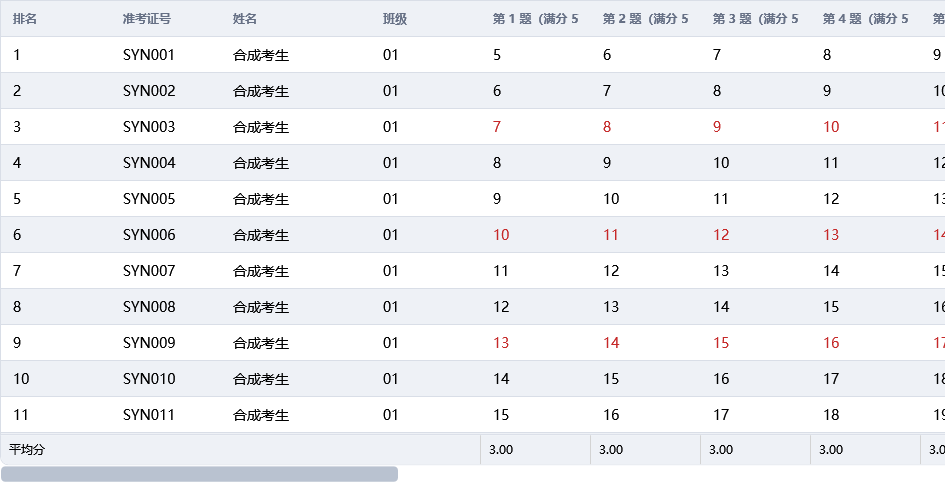
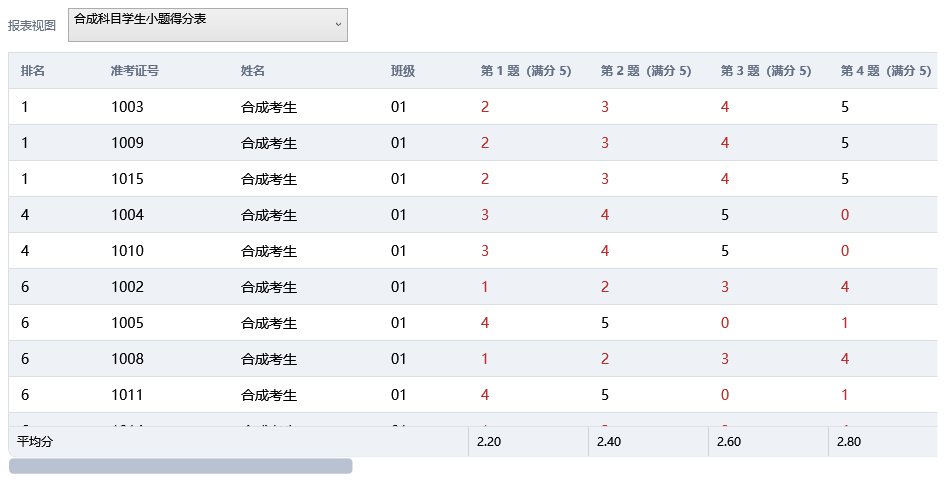
G03: 增加报表会话失效保护与本地切表视图

diff --git a/src/Exam.Admin/Reporting/ReportWorkspaceView.xaml b/src/Exam.Admin/Reporting/ReportWorkspaceView.xaml
@@ -1,0 +1,21 @@
+<UserControl x:Class="Exam.Admin.Reporting.ReportWorkspaceView"
+             xmlns="http://schemas.microsoft.com/winfx/2006/xaml/presentation"
+             xmlns:x="http://schemas.microsoft.com/winfx/2006/xaml"
+             xmlns:reporting="clr-namespace:Exam.Admin.Reporting">
+    <Grid Margin="8">
+        <Grid.RowDefinitions>
+            <RowDefinition Height="Auto" />
+            <RowDefinition Height="*" />
+        </Grid.RowDefinitions>
+        <StackPanel Orientation="Horizontal" Margin="0,0,0,10">
+            <TextBlock Text="报表视图" VerticalAlignment="Center" Margin="0,0,12,0"
+                       Style="{DynamicResource CaptionText}" />
+            <ComboBox x:Name="TableChooser" Width="280" MinHeight="34"
+                      ItemsSource="{Binding Tables}" DisplayMemberPath="Title"
+                      SelectedItem="{Binding SelectedTable, Mode=TwoWay}"
+                      IsEnabled="{Binding HasTables}" />
+        </StackPanel>
+        <reporting:ReportTableView Grid.Row="1" Table="{Binding SelectedTable}"
+                                   UnavailableReason="{Binding UnavailableReason}" />
+    </Grid>
+</UserControl>

diff --git a/src/Exam.Admin/Reporting/ReportTableSessionViewModel.cs b/src/Exam.Admin/Reporting/ReportTableSessionViewModel.cs
@@ -1,0 +1,182 @@
+using System.Windows.Threading;
+using Exam.Admin.Infrastructure;
+using Exam.Domain.Reporting;
+
+namespace Exam.Admin.Reporting;
+
+/// <summary>
+/// Owns only the local display of one authorized, published report result.
+/// The future API adapter must decide whether a result is currently readable.
+/// All methods that change the view are called on the UI dispatcher.
+/// </summary>
+public sealed class ReportTableSessionViewModel : BindableBase, IDisposable
+{
+    private readonly Dispatcher _dispatcher = Dispatcher.CurrentDispatcher;
+    private CancellationTokenSource? _cancellation;
+    private ReportLoadTicket? _pending;
+    private IReadOnlyList<ReportTable> _tables = Array.Empty<ReportTable>();
+    private ReportTable? _selectedTable;
+    private string? _examId;
+    private string _unavailableReason = "报表尚未开放";
+    private ReportTableKind _preferredKind = ReportTableKind.StudentTotals;
+    private string? _preferredSubjectId;
+    private bool _disposed;
+
+    public IReadOnlyList<ReportTable> Tables
+    {
+        get => _tables;
+        private set
+        {
+            if (SetProperty(ref _tables, value)) OnPropertyChanged(nameof(HasTables));
+        }
+    }
+
+    public bool HasTables => Tables.Count > 0;
+
+    public ReportTable? SelectedTable
+    {
+        get => _selectedTable;
+        set
+        {
+            VerifyAccess();
+            if (value is not null && !Tables.Contains(value)) return;
+            if (SetProperty(ref _selectedTable, value) && value is not null)
+            {
+                _preferredKind = value.Kind;
+                _preferredSubjectId = value.SubjectId;
+            }
+        }
+    }
+
+    public string? ExamId => _examId;
+
+    // This is local UI text, not a server report-state code.
+    public string UnavailableReason
+    {
+        get => _unavailableReason;
+        private set => SetProperty(ref _unavailableReason, value);
+    }
+
+    /// <summary>
+    /// Starts a read through an external authorized loader. Every start hides the
+    /// previous table and cancels its request, including refreshes of one exam.
+    /// </summary>
+    public ReportLoadTicket BeginLoad(string examId)
+    {
+        VerifyAccess();
+        if (_disposed) throw new ObjectDisposedException(nameof(ReportTableSessionViewModel));
+        if (string.IsNullOrWhiteSpace(examId)) throw new ArgumentException("考试标识不能为空。", nameof(examId));
+
+        if (!string.Equals(_examId, examId, StringComparison.Ordinal))
+        {
+            _preferredKind = ReportTableKind.StudentTotals;
+            _preferredSubjectId = null;
+        }
+        CancelPending();
+        _examId = examId;
+        OnPropertyChanged(nameof(ExamId));
+        ClearTables();
+        UnavailableReason = "正在加载报表";
+        _cancellation = new CancellationTokenSource();
+        _pending = new ReportLoadTicket(examId, _cancellation.Token);
+        return _pending;
+    }
+
+    /// <summary>Accept only the current request and one complete published result.</summary>
+    public bool TryAcceptPublished(ReportLoadTicket ticket, ReportCalculationResult result)
+    {
+        VerifyAccess();
+        ArgumentNullException.ThrowIfNull(ticket);
+        ArgumentNullException.ThrowIfNull(result);
+        if (!IsCurrent(ticket)) return false;
+
+        var tables = ReportTableProjection.Build(result);
+        CompletePending();
+        Tables = tables;
+        SelectedTable = tables.FirstOrDefault(table => table.Kind == _preferredKind &&
+            string.Equals(table.SubjectId, _preferredSubjectId, StringComparison.Ordinal)) ?? tables[0];
+        UnavailableReason = string.Empty;
+        return true;
+    }
+
+    public bool TryFail(ReportLoadTicket ticket)
+    {
+        VerifyAccess();
+        ArgumentNullException.ThrowIfNull(ticket);
+        if (!IsCurrent(ticket)) return false;
+        CompletePending();
+        ClearTables();
+        UnavailableReason = "报表请求失败";
+        return true;
+    }
+
+    public bool TrySelect(ReportTableKind kind, string? subjectId = null)
+    {
+        VerifyAccess();
+        if (_disposed) return false;
+        var table = Tables.FirstOrDefault(item => item.Kind == kind &&
+            string.Equals(item.SubjectId, subjectId, StringComparison.Ordinal));
+        if (table is null) return false;
+        SelectedTable = table;
+        return true;
+    }
+
+    /// <summary>Call immediately on a version, permission, or connection invalidation.</summary>
+    public void Invalidate()
+    {
+        VerifyAccess();
+        if (_disposed) return;
+        CancelPending();
+        ClearTables();
+        UnavailableReason = "报表尚未开放";
+    }
+
+    public void Dispose()
+    {
+        VerifyAccess();
+        if (_disposed) return;
+        _disposed = true;
+        CancelPending();
+        ClearTables();
+    }
+
+    private bool IsCurrent(ReportLoadTicket ticket) => !_disposed &&
+        ReferenceEquals(_pending, ticket) && !ticket.CancellationToken.IsCancellationRequested &&
+        string.Equals(_examId, ticket.ExamId, StringComparison.Ordinal);
+
+    private void ClearTables()
+    {
+        SelectedTable = null;
+        Tables = Array.Empty<ReportTable>();
+    }
+
+    private void CancelPending()
+    {
+        var source = _cancellation;
+        _pending = null;
+        _cancellation = null;
+        source?.Cancel();
+        source?.Dispose();
+    }
+
+    private void CompletePending()
+    {
+        _pending = null;
+        _cancellation?.Dispose();
+        _cancellation = null;
+    }
+
+    private void VerifyAccess() => _dispatcher.VerifyAccess();
+}
+
+public sealed class ReportLoadTicket
+{
+    internal ReportLoadTicket(string examId, CancellationToken cancellationToken)
+    {
+        ExamId = examId;
+        CancellationToken = cancellationToken;
+    }
+
+    public string ExamId { get; }
+    public CancellationToken CancellationToken { get; }
+}

diff --git a/tests/Unit/Exam.AdminUnitTests/Reporting/ReportTableSessionTests.cs b/tests/Unit/Exam.AdminUnitTests/Reporting/ReportTableSessionTests.cs
@@ -1,0 +1,116 @@
+using Exam.Admin.Reporting;
+using Exam.Contracts.Grading;
+using Exam.Domain.Reporting;
+using Exam.Domain.Scoring;
+
+namespace Exam.AdminUnitTests.Reporting;
+
+/// <summary>All identifiers and scores are synthetic examples, not real candidate data.</summary>
+public sealed class ReportTableSessionTests
+{
+    [Fact]
+    public void ExamSwitch_CancelsOldRequestAndRejectsLateResult()
+    {
+        using var session = new ReportTableSessionViewModel();
+        var old = session.BeginLoad("synthetic-exam-a");
+        var current = session.BeginLoad("synthetic-exam-b");
+
+        Assert.True(old.CancellationToken.IsCancellationRequested);
+        Assert.False(session.TryAcceptPublished(old, Result(1)));
+        Assert.False(session.HasTables);
+        Assert.Null(session.SelectedTable);
+        Assert.True(session.TryAcceptPublished(current, Result(2)));
+        Assert.Equal(8, session.Tables.Count);
+        Assert.Equal(ReportTableKind.StudentTotals, session.SelectedTable!.Kind);
+        Assert.Equal("synthetic-exam-b", session.ExamId);
+        Assert.False(session.TryAcceptPublished(current, Result(1)));
+    }
+
+    [Fact]
+    public void Refresh_HidesOldTableAndKeepsSelectionOnlyWhenItStillExists()
+    {
+        using var session = new ReportTableSessionViewModel();
+        var first = session.BeginLoad("synthetic-exam-a");
+        Assert.True(session.TryAcceptPublished(first, Result(2)));
+        Assert.True(session.TrySelect(ReportTableKind.SubjectAnswers, "s2"));
+
+        var refresh = session.BeginLoad("synthetic-exam-a");
+        Assert.Empty(session.Tables);
+        Assert.Null(session.SelectedTable);
+        Assert.Equal("正在加载报表", session.UnavailableReason);
+        Assert.True(session.TryAcceptPublished(refresh, Result(2)));
+        Assert.Equal(ReportTableKind.SubjectAnswers, session.SelectedTable!.Kind);
+        Assert.Equal("s2", session.SelectedTable.SubjectId);
+
+        var structureChanged = session.BeginLoad("synthetic-exam-a");
+        Assert.True(session.TryAcceptPublished(structureChanged, Result(1)));
+        Assert.Equal(ReportTableKind.StudentTotals, session.SelectedTable!.Kind);
+        Assert.False(session.TrySelect(ReportTableKind.SubjectAnswers, "s2"));
+    }
+
+    [Fact]
+    public void InvalidationAndFailure_ClearResultsAndRejectCancelledResponses()
+    {
+        using var session = new ReportTableSessionViewModel();
+        var first = session.BeginLoad("synthetic-exam-a");
+        Assert.True(session.TryAcceptPublished(first, Result(1)));
+        var pending = session.BeginLoad("synthetic-exam-a");
+        session.Invalidate();
+
+        Assert.True(pending.CancellationToken.IsCancellationRequested);
+        Assert.False(session.TryAcceptPublished(pending, Result(1)));
+        Assert.False(session.TryFail(pending));
+        Assert.False(session.HasTables);
+        Assert.Null(session.SelectedTable);
+        Assert.Equal("报表尚未开放", session.UnavailableReason);
+
+        var failed = session.BeginLoad("synthetic-exam-a");
+        Assert.True(session.TryFail(failed));
+        Assert.Equal("报表请求失败", session.UnavailableReason);
+        Assert.False(session.TryAcceptPublished(failed, Result(1)));
+    }
+
+    [Fact]
+    public void NewExam_ResetsPriorSubjectSelection()
+    {
+        using var session = new ReportTableSessionViewModel();
+        Assert.True(session.TryAcceptPublished(session.BeginLoad("synthetic-exam-a"), Result(2)));
+        Assert.True(session.TrySelect(ReportTableKind.QuestionScores, "s2"));
+
+        Assert.True(session.TryAcceptPublished(session.BeginLoad("synthetic-exam-b"), Result(2)));
+
+        Assert.Equal(ReportTableKind.StudentTotals, session.SelectedTable!.Kind);
+        Assert.Null(session.SelectedTable.SubjectId);
+    }
+
+    [Fact]
+    public void RepeatedRefresh_CancelsEarlierRequestEvenForTheSameExam()
+    {
+        using var session = new ReportTableSessionViewModel();
+        var earlier = session.BeginLoad("synthetic-exam-a");
+        var later = session.BeginLoad("synthetic-exam-a");
+
+        Assert.True(earlier.CancellationToken.IsCancellationRequested);
+        Assert.False(session.TryFail(earlier));
+        Assert.False(session.TryAcceptPublished(earlier, Result(1)));
+        Assert.True(session.TryAcceptPublished(later, Result(1)));
+        Assert.True(session.HasTables);
+    }
+
+    private static ReportCalculationResult Result(int subjectCount)
+    {
+        var participant = new ReportParticipant("synthetic-candidate", "0001", "Synthetic candidate", "01");
+        var subjects = Enumerable.Range(1, subjectCount).Select(number =>
+            new ReportSubject($"s{number}", $"Synthetic subject {number}", number, R(5),
+                [new ReportQuestion($"q{number}", number, R(5))])).ToArray();
+        var grades = subjects.Select(subject => new ReportSubjectGrade(subject.SubjectId, R(5),
+            [new ReportQuestionGrade(subject.Questions[0].QuestionId, "A", AnswerOutcome.Correct, R(5))]))
+            .ToArray();
+        var submission = new ReportSubmission("synthetic-submission", "synthetic-exam",
+            participant.CandidateId, 1, grades, R(5 * subjectCount));
+        return ReportCalculator.Calculate(new ReportCalculationInput("synthetic-exam", 1,
+            subjects, [participant], [submission]));
+    }
+
+    private static ExactRational R(int value) => ExactRational.FromInteger(value);
+}

diff --git a/src/Exam.Admin/Reporting/ReportWorkspaceView.xaml.cs b/src/Exam.Admin/Reporting/ReportWorkspaceView.xaml.cs
@@ -1,0 +1,9 @@
+using System.Windows.Controls;
+
+namespace Exam.Admin.Reporting;
+
+/// <summary>Module-local view; the public navigation and API adapter are not wired here.</summary>
+public partial class ReportWorkspaceView : UserControl
+{
+    public ReportWorkspaceView() => InitializeComponent();
+}
